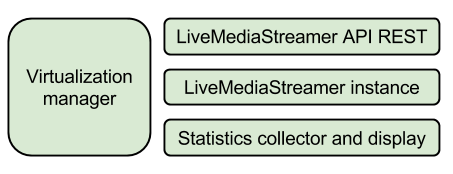
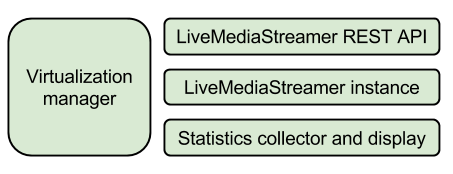
going to ch3

Changed region(s): [[0.7417, 0.1437, 0.9581, 0.2586]]

diff --git a/chapters/problemStatementAndProposal.tex b/chapters/problemStatementAndProposal.tex
@@ -15,11 +15,13 @@ Therefore, above all it's required to define the platform's architecture to prot
 \end{center}
 \end{figure}
 
-The "LiveMediaStreamer API REST" layer will contain the service that will be offered to different and external applications in order to manage the "LiveMediaStreamer instance" layer by creating different audio and video production scenarios. Both layers are the core layers of the platform.
+The "LiveMediaStreamer REST API" layer will contain the service that will be offered to different and external applications (communicating over HTTP) in order to manage the "LiveMediaStreamer instance" layer by creating different audio and video production scenarios. Both layers are the core layers of the platform. 
 
 Moreover, in order to offer a centralized monitoring system, the "Statistics collector and display" layer becomes as the generic box for this requirement.
 
-Finally, it is also required to provide an orchestrator that manages the deployment and distribution of the possible configurations for the previous introduced layers. This will be done thanks to the "Virtualization manager" layer.
+Then, it is also required to provide an orchestrator that manages the deployment and distribution of the possible configurations for the previous introduced layers. This will be done thanks to the "Virtualization manager" layer.
+
+Finally, to point out that how the communication between each layer is going to be carried out is treated in next chapters.
 
 \subsection{Virtualization}
 
@@ -31,12 +33,12 @@ First of all, next points are showing which are the expected outcomes for using 
 \item To manage and maintain a system of small pieces of services (assure a microservice architecture based pattern)
 \item To have flexibility in order to quickly load (e.g.: start, restart, stop) required instances (e.g.: to assure real-time scalability) and to deploy any possible required scenario/configuration.
 \item To offer ease to continuous develop and deploy the different parts of the architecture
-\item To have version like system for having different version tags for the architecture modules (e.g.: a development and a production box of the same API REST service)
+\item To have version like system for having different version tags for the architecture modules (e.g.: a development and a production box of the same REST API service)
 \item To assure full compatibility for the core layers' operating system (right now only Linux environments are supported)
 \item To assure full compatibility for the hardware to work with (mainly x86 processors are in the scope)
 \end{itemize}
 
-Therefore, it is also required to use an as much lightweight as possible technology.
+Moreover, it is also required to use an as much lightweight as possible technology, and this fact is also because of this project aims to virtualize each piece of the platform architecture.
 
 Under Linux environments there are many virtualization options (most of them proprietary) to analyse, but lets focus on the ones that are open-source and have wider and active communities behind.
 
@@ -153,9 +155,9 @@ Tool for monitoring and graphing the performance of computer systems, which coll
 
 \end{itemize}
 
-Many other solutions have been discarded due to depend on enterprises roadmap or due to not fit under the exposed requirements. (REFERENCE Comparison of network monitoring systems WIKIPEDIA) 
+Many other solutions have been discarded due to depend on specific enterprises' roadmap or due to not fit under previously exposed requirements. (REFERENCE Comparison of network monitoring systems WIKIPEDIA) 
 
-Finally, Collectd and Graphite are the selected tools. Main reasons are due to being fully configurable and its core design and philosophy. Collectd has a data distribution system based on a push model and it can be single deployed (i.e.: gathering and display layer), but it is going to be used with the storage and display tool Graphite. This fact is due to assure high performance for the containers where the Collectd will be gathering and transmitting metrics through UDP, and because of both tools lead to create a microservice architecture monitoring layer. Moreover, Graphite software will be deployed as a centralized storing and displaying tool which will be feed from many Collectds. Another reason to select Collectd is due to being fully compatible with Docker (Collectd can be deployed inside a container and there is also an official plugin to monitor Docker containers in a O.S.). 
+Finally, Collectd and Graphite are the selected tools. Main reasons are due to being fully configurable and its core design and philosophy. Collectd has a data distribution system based on a push model and it can be single deployed (i.e.: gathering and display layer), but it is going to be used with the storage and display tool Graphite. This fact is due to assure high performance for the containers where the Collectd will be gathering and transmitting metrics through UDP, and because of both tools lead to create a microservice architecture monitoring layer. Moreover, Graphite software will be deployed as a centralized storing and displaying tool which will be feed from many Collectds. Another reason to select Collectd is due to being fully compatible with Docker (Collectd can be deployed inside a container and there is also an official plugin to monitor Docker containers in an O.S.). 
 
 Finally, Graphite has also been selected because it offers a HTTP API which ease its scalability. 
 
@@ -169,7 +171,7 @@ So, the monitoring layer is proposed to be designed as shown next:
 \end{center}
 \end{figure}
 
-\subsection{Application layer}
+\subsection{Application layer}\label{B:appLayerCH2}
 
 This subsection aims to compile the minimum requirements that the core service (i.e.: the LiveMediaStreamer framework) should implement to fit within the platform. This means assuring that it can be demonstrated as an efficient real-time cloud production platform, as a prototype.
 
@@ -210,9 +212,9 @@ Regarding media statistics, current LiveMediaStreamers' version of the framework
 
 Both items' implementation solution are treated on chapter 5.
 
-Then, a main issue have to be taken into account regarding how to implement the metrics presentations in order to let them be logged for external applications. This is regarding current middleware API, which is not at all an API but a web GUI API for an specific scenario (i.e.: AVMixer scenario), which means that it is required to implement a new middleware API to let external applications to log the LMS internal metrics as API (--REFERENCE--) definition reclaims. 
+Then, a main issue have to be taken into account regarding how to implement the metrics presentations in order to let them be logged for external applications. This is regarding current middleware API, which is not at all an API but a web GUI API for an specific scenario (i.e.: AVMixer scenario, as said in state of the art's chapter \ref{SOA:LMSframework}), which means that it is required to implement a more generic middleware API to let external applications to log the LMS internal metrics as API (--REFERENCE--) definition reclaims. 
 
-Therefore, the proposal for this issue is to develop a RESTfull API in order to present the metrics. This implementation is an opportunity to develop a full API REST for managing the LiveMediaStreamer framework.  Moreover, such middleware will ease to develop new applications over the LMS framework by evolving it as a SaaS. 
+Therefore, the proposal for this issue is to develop a RESTfull API in order to present the metrics from the LMS instance. This implementation is an opportunity to develop a full API for managing the LiveMediaStreamer framework over HTTP.  Moreover, such middleware will ease to develop new applications over the LMS framework by evolving it as a SaaS, which means a proper enhancement to fit in a cloud environment. 
 
 \begin{figure}[htb]
 \begin{center}
@@ -253,7 +255,7 @@ For example, a possible and specific architecture configuration could be a trans
 \end{center}
 \end{figure}
 
-Figure \ref{F:exampleArch} is a simple example of a transcoding servicde behind a web application. This use case example takes into account an user, which configures and manages the LiveMediaStreamer's scenario configured for a transcoding service (e.g.: starting with a HTML input form for incoming inputs, transcoding parameters and RTSP server configuration). Concretely, at architecture level, there is a container with an LMS daemon running, another one with the API REST that receives queries from the HTTP server from another container, which is serving the web application to the end user, which is using the application through a web browser. Then, each container has a collectd client that parses the logs of interest and it sends the metrics to the Graphite service running. Therefore, at the web application the user could be able to see specific graphics (e.g.: CPU usage, lost frames, bandwidth usage, \ldots) from the graphite server (in another container) in order to monitor the overall performance and actuate if required. Finally, to point out that this scenario could be splitted into different O.S.. 
+Figure \ref{F:exampleArch} is a simple example of a transcoding servicde behind a web application. This use case example takes into account an user, which configures and manages the LiveMediaStreamer's scenario configured for a transcoding service (e.g.: starting with a HTML input form for incoming inputs, transcoding parameters and RTSP server configuration). Concretely, at architecture level, there is a container with an LMS daemon running, another one with the REST API that receives queries from the HTTP server from another container, which is serving the web application to the end user, which is using the application through a web browser. Then, each container has a collectd client that parses the logs of interest and it sends the metrics to the Graphite service running. Therefore, at the web application the user could be able to see specific graphics (e.g.: CPU usage, lost frames, bandwidth usage, \ldots) from the graphite server (in another container) in order to monitor the overall performance and actuate if required. Finally, to point out that this scenario could be splitted into different O.S.. 
 
 Finally, to point out that what will be deployed in order to demonstrate the platform feasibility is an specific but as generic as possible scenario. However, this topic will be treated in chapter \ref{H:platformDeploymentAndDemonstrations}.
 

diff --git a/chapters/stateOfTheArt.tex b/chapters/stateOfTheArt.tex
@@ -252,7 +252,7 @@ This section is devoted to the framework which the core service (i.e.: audio and
 
 \subsection{LMS framework}\label{SOA:LMSframework}
 
-LMS framework has been developed with my team work since two years ago. A first implementation was based on the network core of the open-source software UltraGrid (--ANNEXX--). One year after, a new core has been developed based on the network streaming library Live555. This change has improved system performance and ease further developments. Live555 library enables implementing any RTP and RTSP module, standard or not, among offering out of the box specific audio and video RTP payload formats support like H264, HEVC or VP9 for video codecs and G711, OPUS or AAC for audio codecs.
+LMS framework has been developed with my team work since two years ago. A first implementation was based on the network core of the open-source software UltraGrid (--REFERENCE--). One year after, a new core has been developed based on the network streaming library Live555. This change has improved system performance and ease further developments. Live555 library enables implementing any RTP and RTSP module, standard or not, among offering out of the box specific audio and video RTP payload formats support like H264, HEVC or VP9 for video codecs and G711, OPUS or AAC for audio codecs.
 
 The aim of LiveMediaStreamer framework is to offer multiple audio and video streams manipulation in real-time in many ways. It is designed following a pipeline pattern so that it consists in a number of filters (i.e.: encoders, decoders, receivers, transmitters, dashers, mixers and resamplers) that can be concatenated or connected with each other in order to process a data flow. The framework is developed under a Linux environment, currently being the only supported platform, using C++ standard libraries and it makes use of several mature media related libraries, which are: 
 
@@ -270,16 +270,24 @@ The aim of LiveMediaStreamer framework is to offer multiple audio and video stre
  
 The framework is designed to be managed remotely through a simple network interface based on JSON formatted TCP socket messages. 
 
-Currently, the framework has a web API based middleware, that loads and manages an audio and video mixer scenario, written in Ruby programming language and it implements Sinatra framework for the web service.
+Currently, the framework does not have a RESTful API, but has a web API based middleware, that loads and manages an audio and video mixer scenario, written in Ruby programming language and it implements Sinatra framework for the web service interface side.
+
+It's recommended to check the ANNEX X for more information about specifics of the LMS architecture in order to understand next chapters (mostly, in problem statement and proposal's subchapter \ref{B:appLayerCH2} and chapter \ref{D:application}, the solution's implementation).
 
 \subsection{Existing similar solutions}\label{SOA:similarSolutions}
 
 Finally, it is important to showcase the current state of the art regarding similar technologies.
 
-Most notable audio and video production technologies over networks are:
+Most notable audio and video production-like technologies over networks are:
 
 \begin{itemize}
 \item Wowza \hfill
+ 
+
+\item Red5 \hfill
+
+
+\item Adobe Flash Media Server \hfill
 
 
 \item vMix \hfill
@@ -296,6 +304,24 @@ Most notable audio and video production technologies over networks are:
 
 \item Livestream \hfill
 
-
 \end{itemize}
 
+There are other technology/application combinations that lend to deploy a media production platform.
+
+POTSER FER UNA TAULA
+
+\begin{table}[htb]
+\caption{Exemple de taula}
+\begin{center}
+\begin{tabular}{|c|l|r|}
+\hline
+{\bf Títol de la Columna 1} & {\bf Títol de la Columna 2} & {\bf Títol de la Columna 3}  \\ \hline \hline
+centrada        & a l'esquerra    & a la dreta       \\ \hline
+centrada        & a l'esquerra    & a la dreta       \\ \hline
+centrada        & a l'esquerra    & a la dreta       \\ \hline
+centrada        & a l'esquerra    & a la dreta       \\ \hline
+centrada        & a l'esquerra    & a la dreta       \\ \hline
+\end{tabular}
+\label{T:prova}
+\end{center}
+\end{table}

diff --git a/chapters/virtualization.tex b/chapters/virtualization.tex
@@ -1,8 +1,44 @@
 \chapter{Virtualization}\label{D:virtualization}
 
+Virtualization chapter focuses on the implementations done in order to prepare generic solutions for a media production platform prototype with the tools already introduced. This is preparing containers for each generic microservice:
 
-dir que desktop virtualization requereix de molts recursos per poder encapsular una app... no es requereix que sigui a nivell gràfic... explicar prèviamanet les caracteristiques del software i l'arquitectura que hauria de seguir.
+\begin{itemize}
+\item The core container with a LiveMediaStreamer instance already deployed inside and ready to use.
+\item The HTTP REST API container with the middleware interface inside and ready to use
+\item Both last items with Collectd inside
+\end{itemize}
+
+Therefore, let's introduce how Docker is prepared. First of all, the host operating system is an Ubuntu 14.04 LTS (--REFERENCE--), which is the Linux distribution version where the LMS and its related environment are developed. 
+
+A
+
+
+
+\begin{verbatim}
+\begin{table}[htb]
+\begin{center}
+\begin{tabular}{|c|l|r|}
+\hline
+{\bf Títol de la Columna 1} & {\bf Títol de la Columna 2} & 
+{\bf Títol de la Columna 3}  \\ \hline \hline
+centrada        & a l'esquerra    & a la dreta       \\ \hline
+centrada        & a l'esquerra    & a la dreta       \\ \hline
+centrada        & a l'esquerra    & a la dreta       \\ \hline
+centrada        & a l'esquerra    & a la dreta       \\ \hline
+centrada        & a l'esquerra    & a la dreta       \\ \hline
+\end{tabular}
+\caption{Exemple de taula}
+\label{T:prova}
+\end{center}
+\end{table}
+\end{verbatim}
+
+
+
+
+CONCLUSIONS CHAPTER
 
 comentar que docker és com un git però de containers, on a dins els containers hi pots tenir un git també hehe
 
 explicar que es prepara cada container de tal forma que sigui collectd ready (potser hi hauran dos tipus, collectdDocker o collectd dins container -multiple processes-)
+

diff --git a/chapters/application.tex b/chapters/application.tex
@@ -2,6 +2,4 @@
 
 -> ENGANXAR CORREU ROSS
 
-dir que desktop virtualization requereix de molts recursos per poder encapsular una app... no es requereix que sigui a nivell gràfic... explicar prèviamanet les caracteristiques del software i l'arquitectura que hauria de seguir.
-
-comentar que docker és com un git però de containers, on a dins els containers hi pots tenir un git també hehe
+-> DIR Q RESTFUL API MIDDLEWARE TRADUEIX HTTP TO TCP (afegint architecture REST per a assegurar que s'aplica un estic d'arquitectura de software escalable per al nuvol.

diff --git a/chapters/conclusions.tex b/chapters/conclusions.tex
@@ -15,3 +15,5 @@ virtualization and monitoring are the key start points to develop a ...
 monitorització - next steps about different monitoring profiles (debug, active, passive,...)
 
 comentar les capes desenvolupades i en quina capa del cloud computing layers aniria i d'aqui a tractar una a una
+
+afegir que es podria millorar la monitoritzacio, en el cas de grans quantitats de dades (enterprise strucuture), fent servir plataformes com HADOOP
